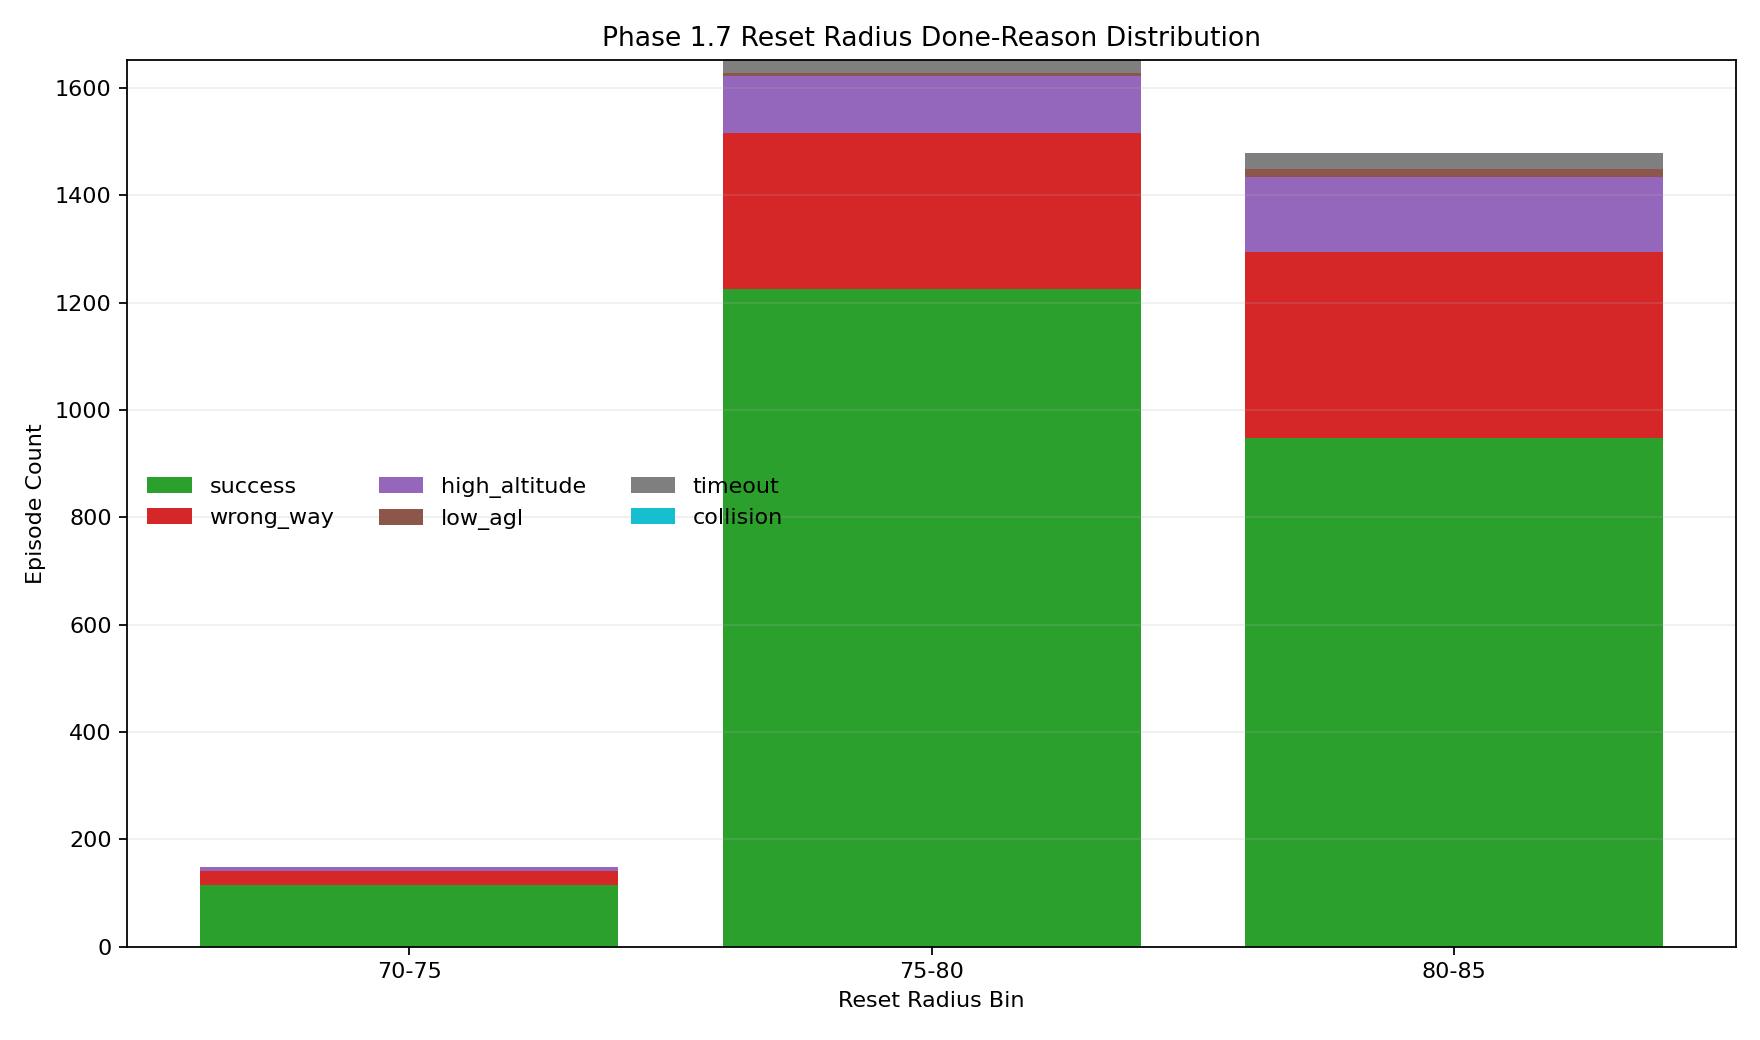
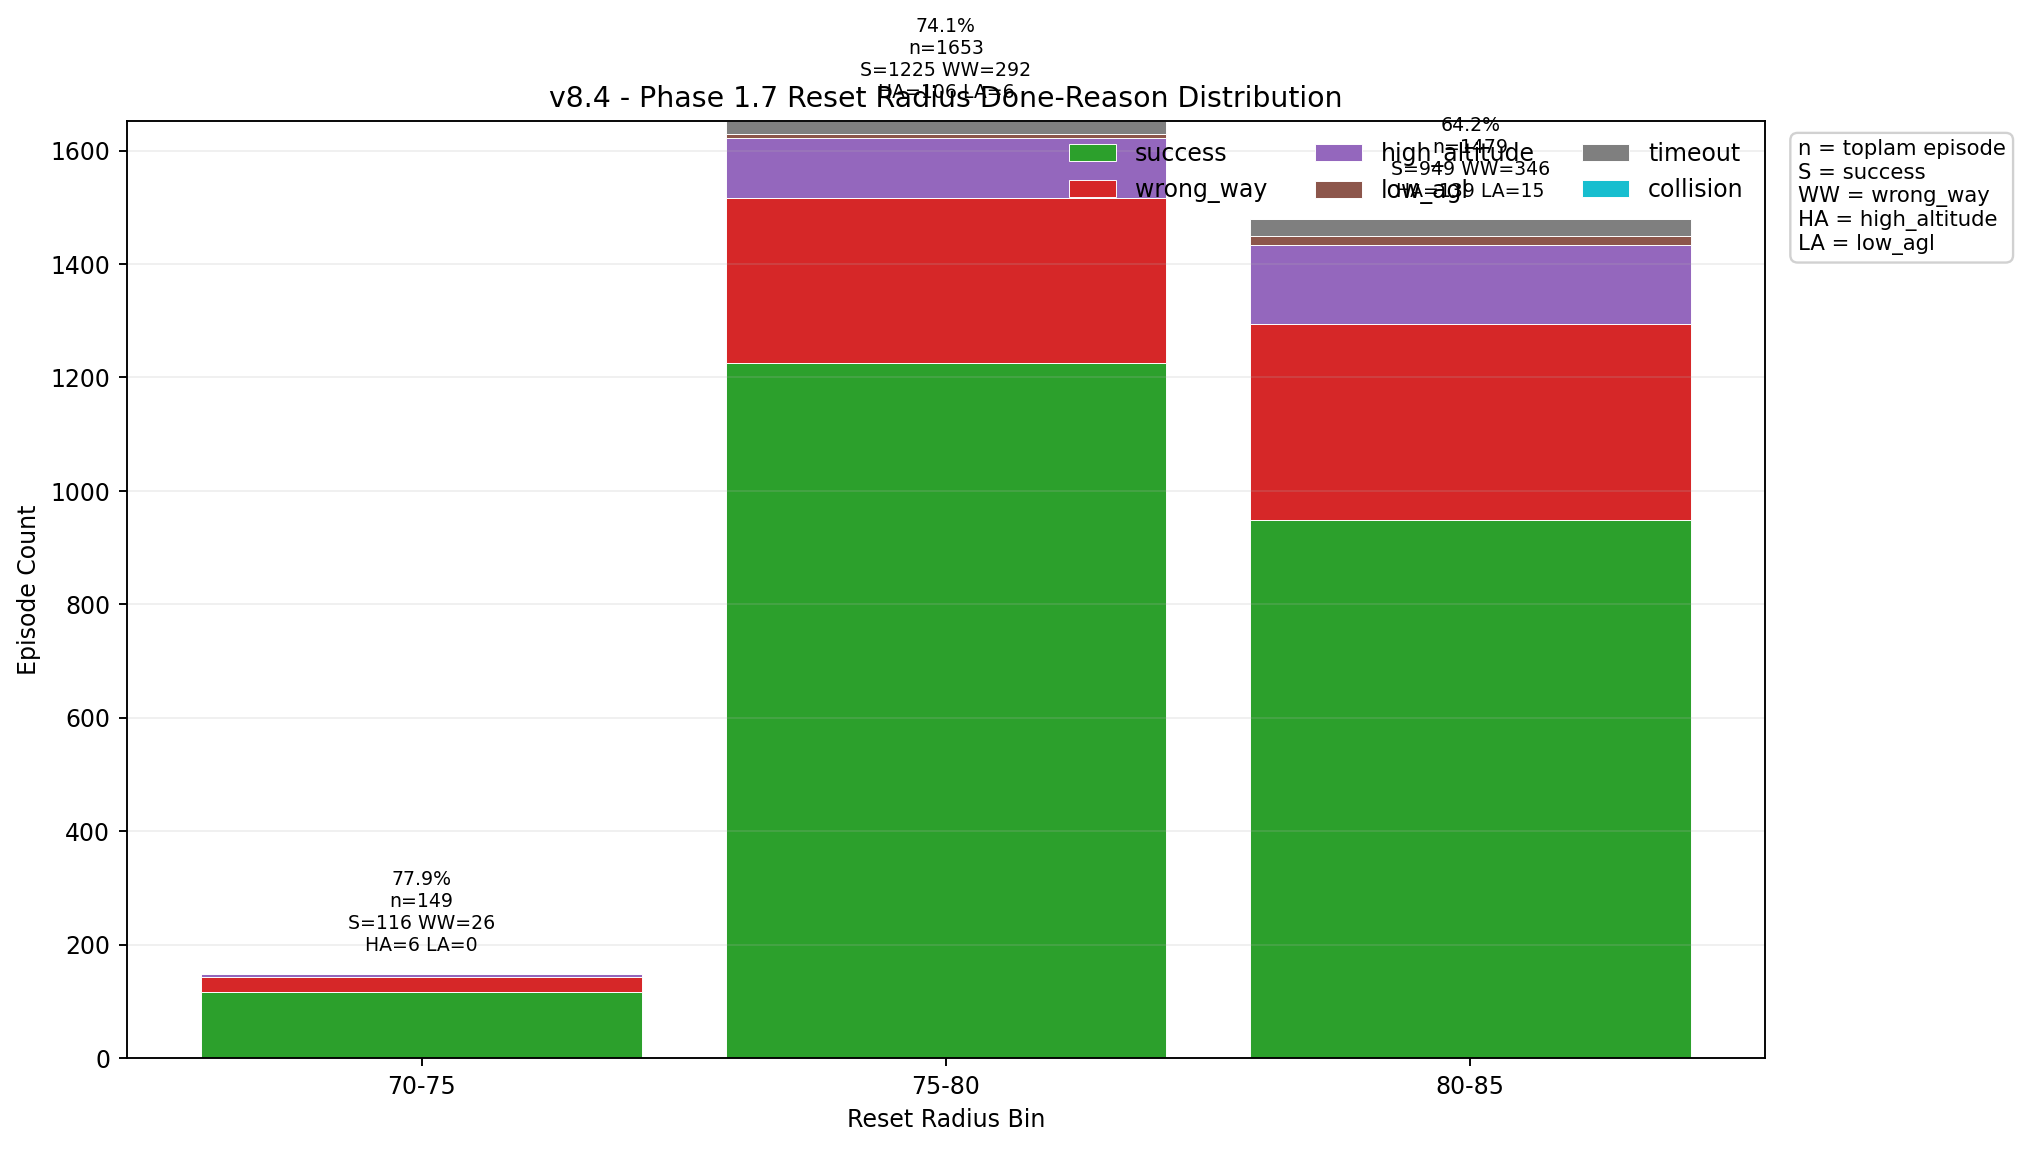
docs: enrich phase 1.7 archive graphs

diff --git a/docs/tuning_memory.md b/docs/tuning_memory.md
@@ -23,3 +23,78 @@ Amac, faz/odul/manevra denemeleri icin notlari kod disinda tutmaktir.
 - `wrong_way` terminali erken tetiklenmeyecek kadar yumusatildi.
 - `near_success_bonus` eklendi; success olmasa bile success'e en yakin hatalar daha yuksek shaping almali.
 - Kod karmasasi azaltmak icin coklu faz secimi env runtime'dan kaldirildi.
+
+## Graph Output Standard
+
+- Grafik uretildiginde yalniz cizim degil, okunmasi icin gerekli sayisal bilgi de ustunde yer almali.
+- Grafik basliklarinda `surum - faz` yazimi kullanilmali.
+  `active/current/proposed` gibi genel etiketler kullanilmamali.
+- Faz bantlari gosterilecekse sadece gercekte var olan fazlar cizilmeli.
+  Oneri fazi ancak kullanici acikca isterse eklenmeli.
+
+### Success Rate Graph
+
+- Kumulatif success rate cizgisi olmali.
+- Rolling `50`, `100`, `200` success rate cizgileri olmali.
+- Grafikte metin olarak su bilgiler yazilmali:
+  - toplam episode
+  - toplam success
+  - genel success rate
+  - guncel rolling `50 / 100 / 200`
+  - en iyi rolling `50 / 100 / 200`
+
+### Success Rug
+
+- Her success episode tek tek gosterilmeli.
+- `y` ekseni bilgi tasimiyorsa gizlenmeli.
+- Grafikte metin olarak su bilgiler yer almali:
+  - toplam success
+  - episode araligi
+  - varsa kullanilan filtre (`upXXXX sonrasi` gibi)
+
+### Reset Outcome Polar
+
+- Done reason renk lejanti her zaman olmali.
+- Faz/surum ismi baslikta yazilmali.
+- Metin kutusunda su ozet olmali:
+  - toplam reset sayisi
+  - success sayisi
+  - wrong_way sayisi
+  - high_altitude sayisi
+  - low_agl sayisi
+
+### Reset Radius Distribution
+
+- Her radius bin icin done reason dagilimi cizilmeli.
+- Mumkunse ayni bin icin success rate de gorunur olmali.
+- Her bin icinde veya hemen ustunde su bilgiler olmali:
+  - `% success`
+  - `n`
+  - `S`
+  - `WW`
+  - `HA`
+  - `LA`
+
+### Reset Radius Phase Plan
+
+- Ust grafik: radius binlerine gore success rate barlari
+- Alt grafik: faz bantlari ve mini success-rate cizgisi
+- Her bin uzerinde su bilgiler yazilmali:
+  - `% success`
+  - `n`
+  - `S`
+  - `WW`
+  - `HA`
+  - `LA`
+- Ayrica grafikte kucuk bir aciklama kutusu olmali:
+  - `n = toplam episode`
+  - `S = success`
+  - `WW = wrong_way`
+  - `HA = high_altitude`
+  - `LA = low_agl`
+
+### General Rule
+
+- Bir grafikte kisa etiket kullaniliyorsa, ayni grafikte o etiketlerin anlami da aciklanmali.
+- Sadece gorsel trend degil, karar vermeyi saglayan sayisal ozet de grafikte bulunmali.
+- Kullanici ozellikle istemedikce eksik/yalin surum gonderilmemeli; varsayilan ciktı dolu ve aciklayici olmali.
